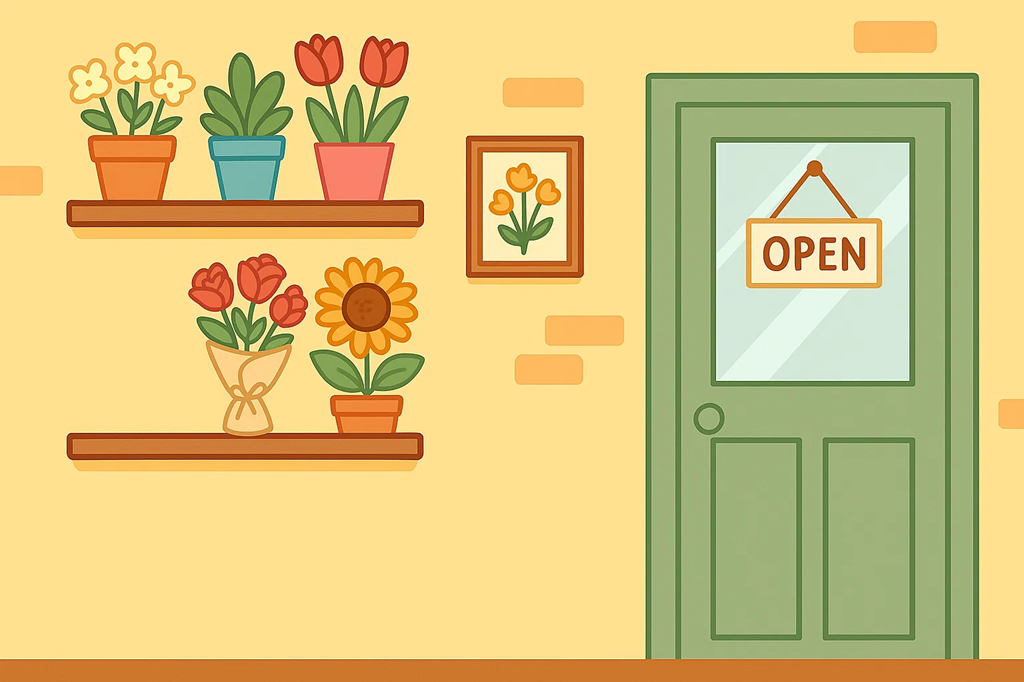
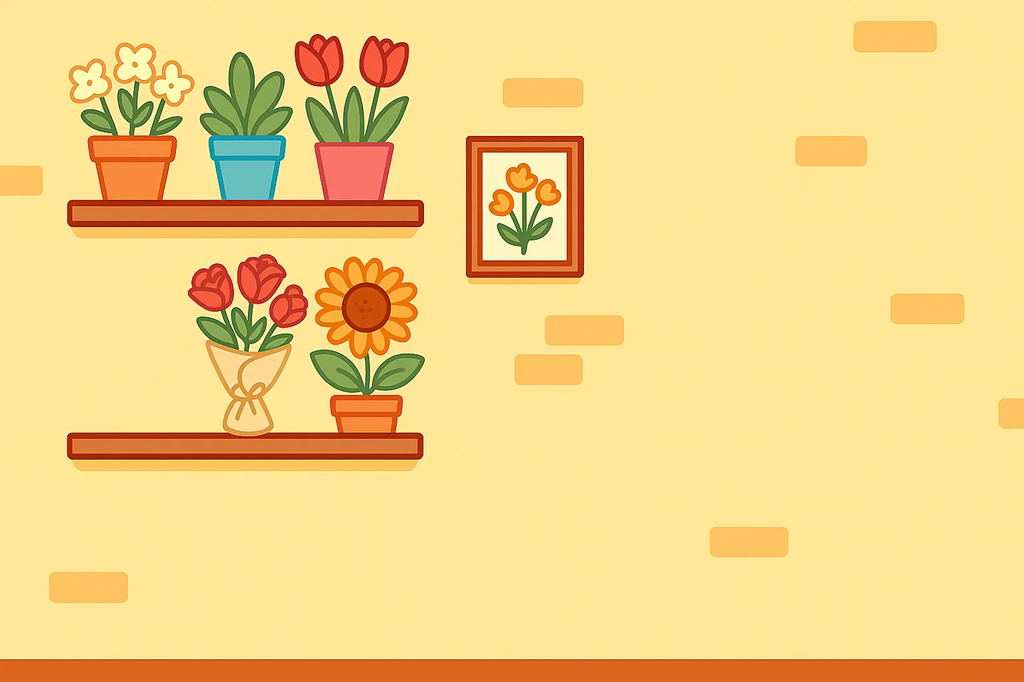
adding stems next

diff --git a/frontend/src/views/gallery/masterFlorist/render/scene.js b/frontend/src/views/gallery/masterFlorist/render/scene.js
@@ -2,14 +2,15 @@ import { MF_CANVAS_WIDTH, MF_CANVAS_HEIGHT, MF_DROP_ZONE_COUNT } from '../canvas
 
 const LEFT_FLOWER_CODES = ['r', 'o', 'y'];
 const RIGHT_FLOWER_CODES = ['b', 'p', 'w'];
-const SLOT_LAYOUT = [
-  { row: 0, col: 0 },
-  { row: 0, col: 1 },
-  { row: 0, col: 2 },
-  { row: 1, col: 0 },
-  { row: 1, col: 1 },
-  { row: 1, col: 2 },
+const SLOT_POSITIONS = [
+  { x: 214 + 100, y: 78 },
+  { x: 397, y: 78 },
+  { x: 580 - 100, y: 78 },
+  { x: 214 + 75, y: 188 },
+  { x: 397, y: 188 },
+  { x: 580 - 75, y: 188 },
 ];
+const SLOT_SIZE = { width: 166, height: 86 };
 const DEFAULT_SLOT_CODES = ['r', 'o', 'y', 'b', 'p', 'w'];
 const FLOWER_LABELS = {
   d: 'Daisy',
@@ -102,48 +103,36 @@ export function createMasterFloristRenderer({ canvas, state } = {}) {
     const solution = gameState?.puzzle?.solution || [];
     const hoverId = gameState?.hoverStemId || null;
 
-    const paddingX = 36;
-    const columnWidth = 150;
-    const columnGap = 28;
-    const slotAreaX = paddingX + columnWidth + columnGap;
-    const slotAreaWidth = MF_CANVAS_WIDTH - slotAreaX * 2;
-    const slotGapX = 18;
-    const slotGapY = 24;
-    const columns = 3;
-    const slotWidth = (slotAreaWidth - slotGapX * (columns - 1)) / columns;
-    const slotHeight = 86;
-    const slotY = 48;
-
     ctx.save();
     ctx.lineWidth = 2;
-    ctx.font = '600 18px "Segoe UI", sans-serif';
     ctx.textAlign = 'center';
     ctx.textBaseline = 'middle';
 
     for (let i = 0; i < MF_DROP_ZONE_COUNT; i += 1) {
-      const layout = SLOT_LAYOUT[i] || { row: Math.floor(i / columns), col: i % columns };
-      const offsetX = layout.offsetX || 0;
-      const offsetY = layout.offsetY || 0;
-      const x = slotAreaX + layout.col * (slotWidth + slotGapX) + offsetX;
-      const y = slotY + layout.row * (slotHeight + slotGapY) + offsetY;
+      const slot = SLOT_POSITIONS[i];
+      if (!slot) continue;
+
+      const width = slot.width ?? SLOT_SIZE.width;
+      const height = slot.height ?? SLOT_SIZE.height;
+      const x = slot.x ?? 0;
+      const y = slot.y ?? 0;
       const code = normalizeSlotCode(solution[i], i);
 
       if (code) {
-        drawSlotFlower(code, x, y, slotWidth, slotHeight);
+        drawSlotFlower(code, x, y, width, height);
         continue;
       }
 
       ctx.save();
       ctx.fillStyle = COLORS.slotFill;
-      ctx.strokeStyle = COLORS.slotEmptyDash;
-      ctx.setLineDash([6, 6]);
+      const rectHover = hoverId === 'slot-' + i;
+      ctx.strokeStyle = rectHover ? COLORS.slotStroke : COLORS.slotEmptyDash;
+      ctx.setLineDash(rectHover ? [] : [6, 6]);
       const rectRadius = 16;
-      roundRect(ctx, x, y, slotWidth, slotHeight, rectRadius, true, true);
+      roundRect(ctx, x, y, width, height, rectRadius, true, true);
       ctx.fillStyle = COLORS.slotText;
       ctx.font = '500 14px "Segoe UI", sans-serif';
-      ctx.textAlign = 'center';
-      ctx.textBaseline = 'middle';
-      ctx.fillText('Slot ' + (i + 1), x + slotWidth / 2, y + slotHeight / 2);
+      ctx.fillText('Slot ' + (i + 1), x + width / 2, y + height / 2);
       ctx.restore();
     }
 
@@ -214,7 +203,7 @@ export function createMasterFloristRenderer({ canvas, state } = {}) {
 
     if (img && img.complete && img.naturalWidth > 0) {
       const baseScale = Math.min(width / img.naturalWidth, height / img.naturalHeight);
-      const scaleFactor = baseScale * 1.8;
+      const scaleFactor = baseScale * 1.8 * 0.75;
       const drawWidth = img.naturalWidth * scaleFactor;
       const drawHeight = img.naturalHeight * scaleFactor;
       const drawX = x + (width - drawWidth) / 2;
